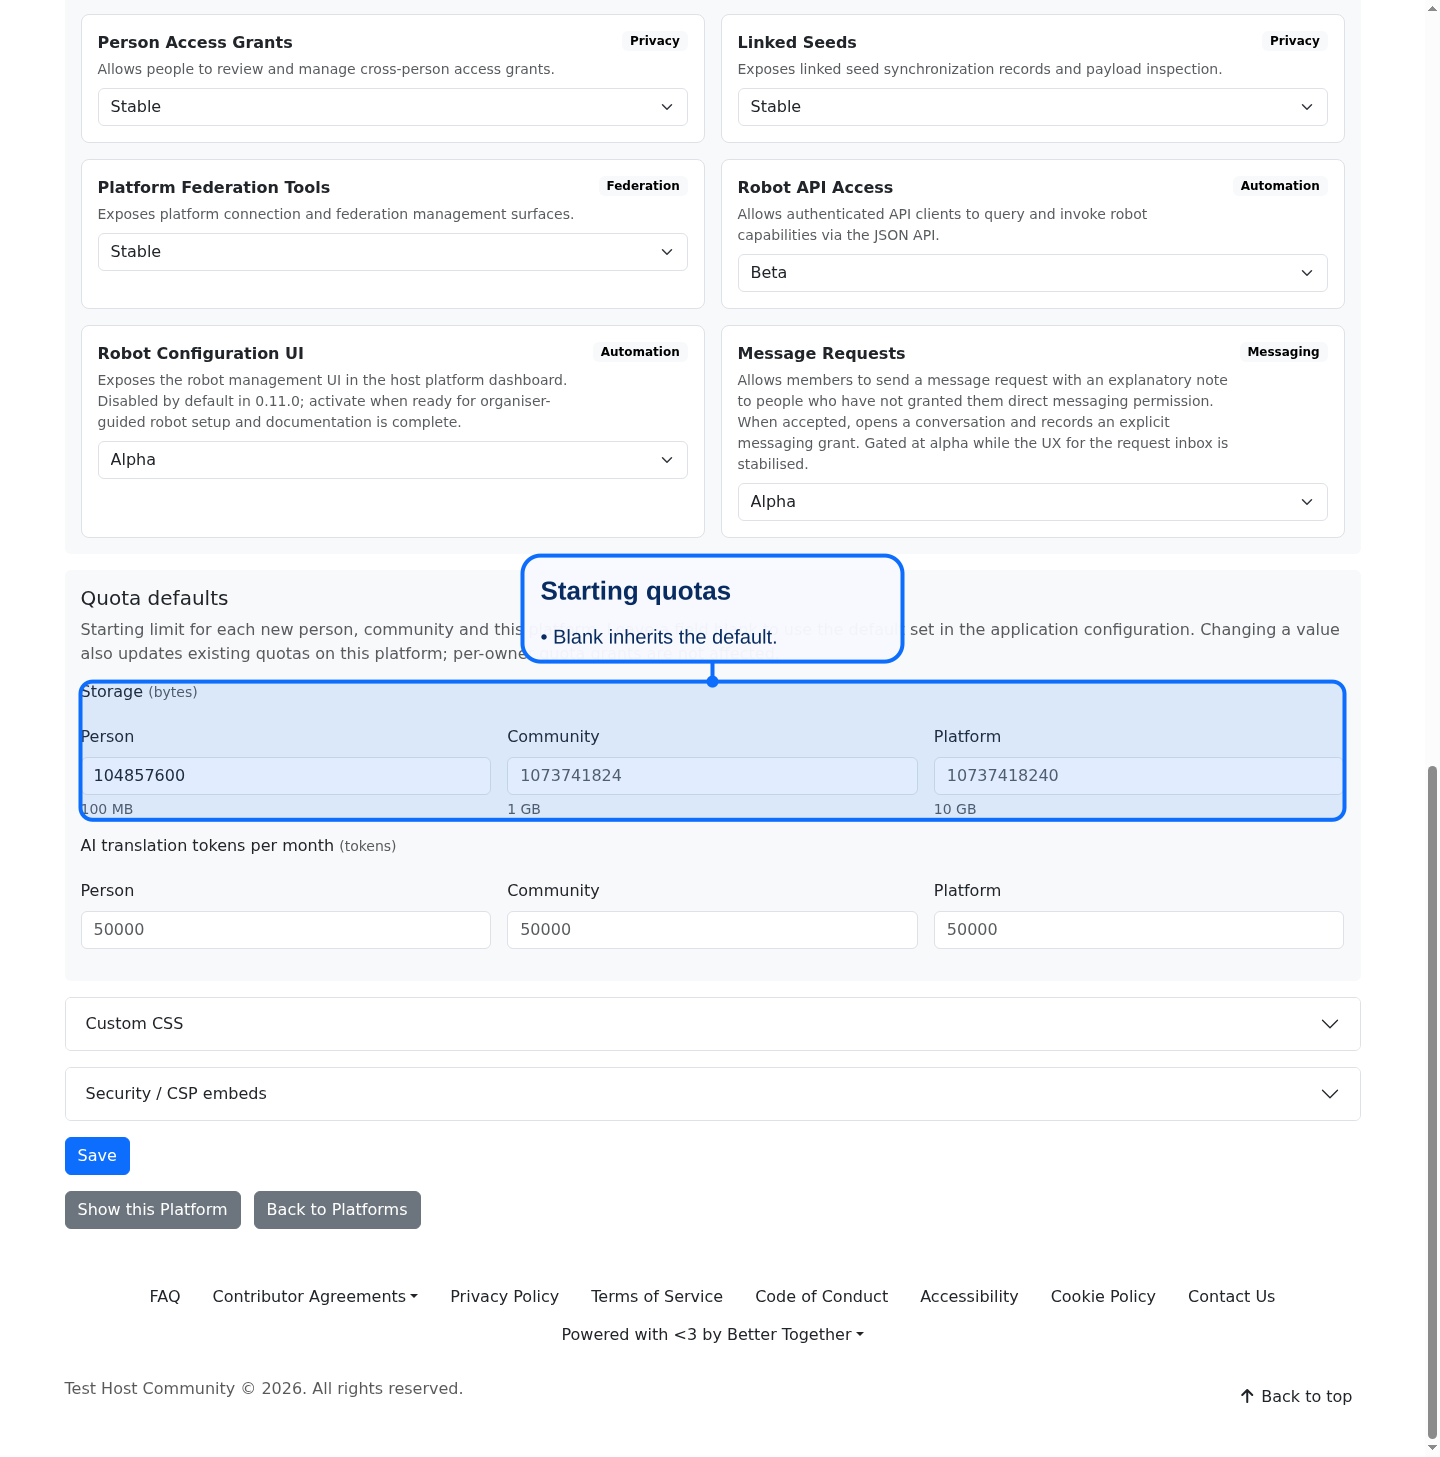
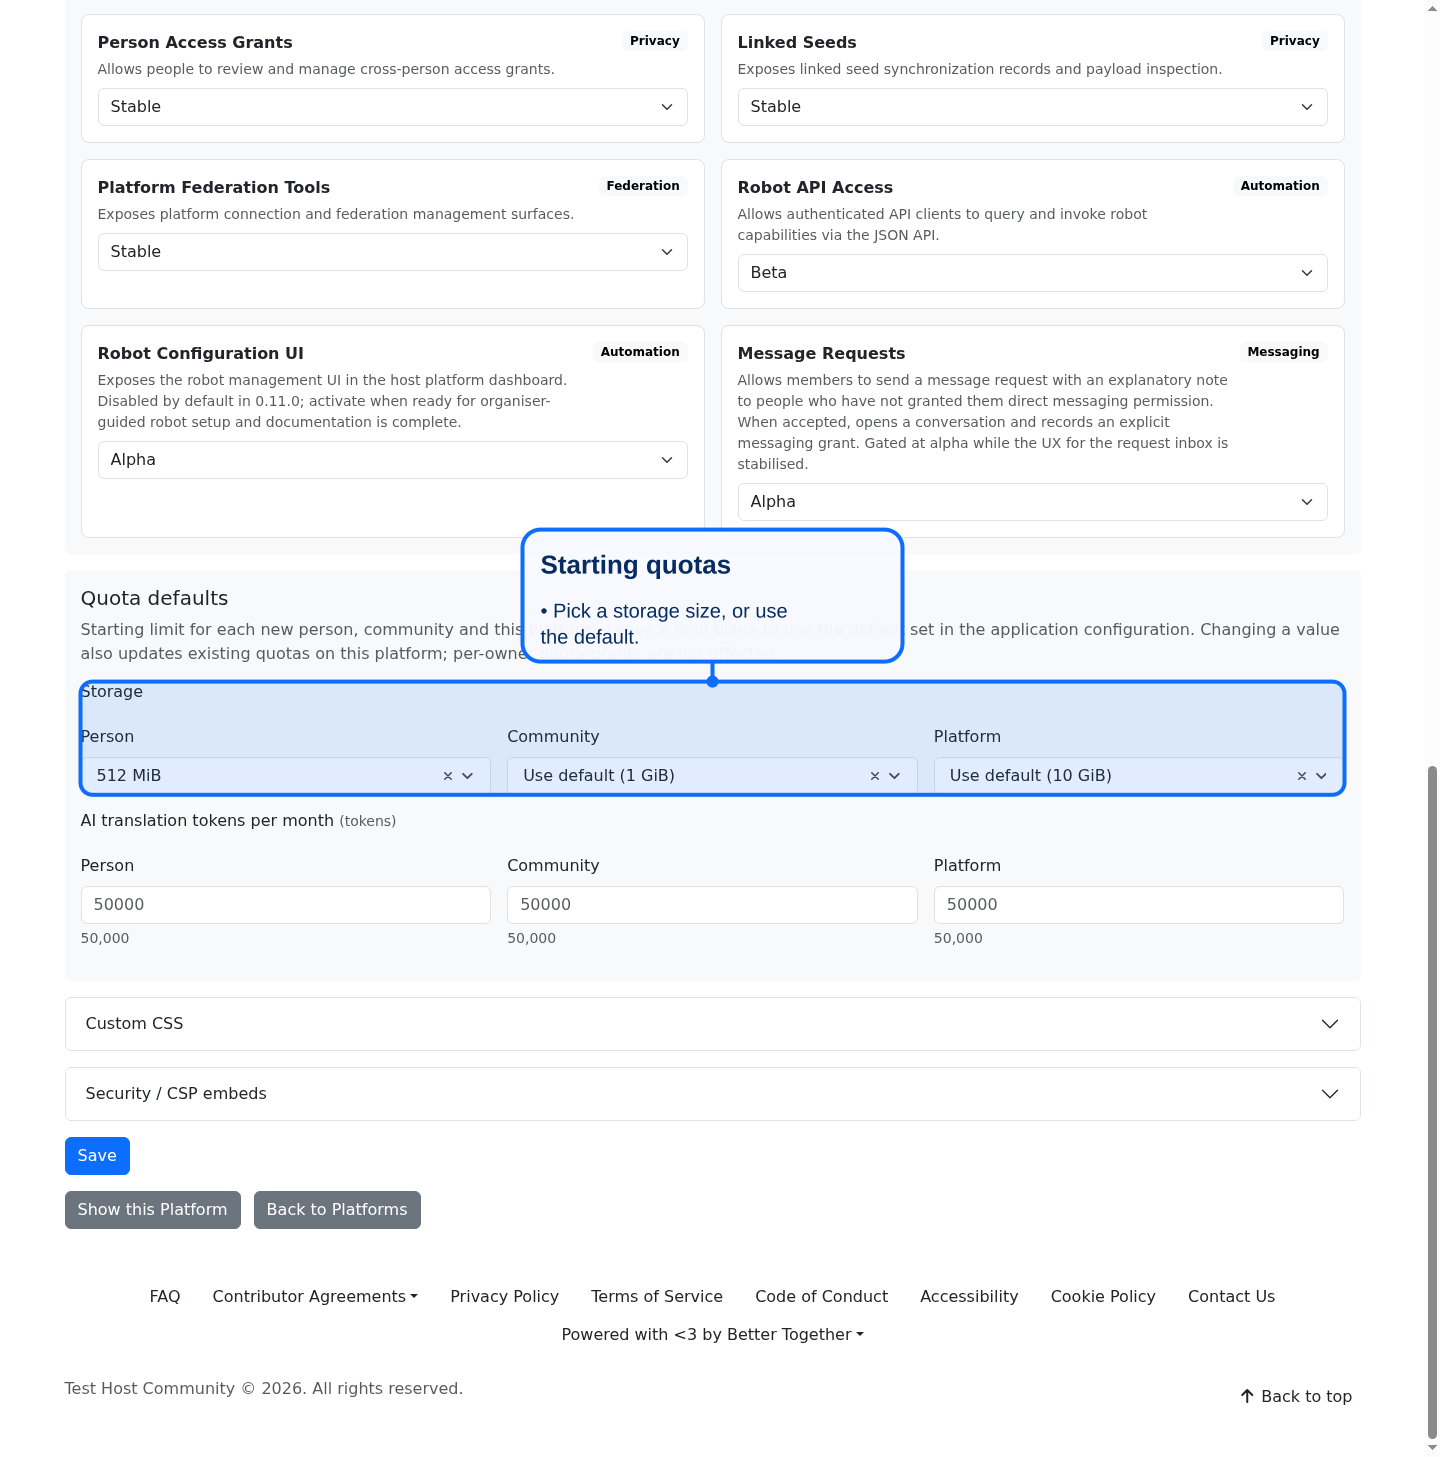
feat(quotas): storage defaults chosen from binary size steps in slim-select
Byte quotas on the platform form are now slim-select dropdowns of binary
denominations (64 MiB up to 8 TiB) shown as human-readable sizes, with a
'use default' entry naming the inherited size. The controller drops any
byte value that is not a listed step or the configured default. Token
quotas stay numeric with a thousands-separated hint. Screenshots, DOM
contract and request specs updated.

Changed region(s): [[0.0312, 0.5251, 0.9375, 0.6486], [0.3438, 0.3397, 0.625, 0.4633]]

diff --git a/lib/better_together/quotas/defaults.rb b/lib/better_together/quotas/defaults.rb
@@ -9,6 +9,13 @@ module BetterTogether
     module Defaults
       OWNER_KINDS = %w[person community platform].freeze
       FILE_NAME = 'quota_defaults.yml'
+      MEBIBYTE = 1024**2
+      # Binary storage denominations offered by the platform form for byte-unit quotas.
+      STORAGE_STEPS = (
+        [64, 128, 256, 512].map { |mib| mib * MEBIBYTE } +
+        [1, 2, 4, 8, 16, 32, 64, 128, 256, 512].map { |gib| gib * 1024 * MEBIBYTE } +
+        [1, 2, 4, 8].map { |tib| tib * (1024**2) * MEBIBYTE }
+      ).freeze
 
       class InvalidDefaultsError < StandardError; end
 
@@ -61,6 +68,16 @@ module BetterTogether
           end
         end
 
+        # Form input guard: for byte-unit types keeps only values that are a listed
+        # storage step or the configured YAML default for that owner kind; everything
+        # else is dropped (inherit). Other units pass through unchanged.
+        def restrict_to_storage_steps(overrides)
+          sanitize_overrides(overrides).each_with_object({}) do |(type, limits), result|
+            allowed = limits.select { |kind, limit| allowed_limit?(type, kind, limit) }
+            result[type] = allowed if allowed.any?
+          end
+        end
+
         # The merged type => kind => integer table (no platform overrides).
         def table
           @table ||= load_table.freeze
@@ -80,6 +97,12 @@ module BetterTogether
         end
 
         private
+
+        def allowed_limit?(type, kind, limit)
+          return true unless Type.find(type)&.unit == :bytes
+
+          STORAGE_STEPS.include?(limit) || yaml_value(type, kind) == limit
+        end
 
         def sanitize_kinds(by_kind)
           by_kind.each_pair.with_object({}) do |(kind, limit), result|

diff --git a/spec/docs_screenshots/better_together/platform_quota_defaults_spec.rb b/spec/docs_screenshots/better_together/platform_quota_defaults_spec.rb
@@ -17,7 +17,7 @@ RSpec.describe 'Documentation screenshots for platform quota defaults',
     skip 'Set RUN_DOCS_SCREENSHOTS=1 to generate documentation screenshots.' unless ENV['RUN_DOCS_SCREENSHOTS'] == '1'
 
     Current.platform = host_platform
-    host_platform.update!(quota_default_limits: { 'media_storage' => { 'person' => 104_857_600 } })
+    host_platform.update!(quota_default_limits: { 'media_storage' => { 'person' => 536_870_912 } })
   end
 
   after do
@@ -34,7 +34,7 @@ RSpec.describe 'Documentation screenshots for platform quota defaults',
         {
           selector: "##{ActionView::RecordIdentifier.dom_id(host_platform, :quota_defaults_media_storage)}",
           title: 'Starting quotas',
-          bullets: ['Blank inherits the default.']
+          bullets: ['Pick a storage size, or use the default.']
         }
       ]
     ) do
@@ -43,7 +43,10 @@ RSpec.describe 'Documentation screenshots for platform quota defaults',
 
       card = find("##{ActionView::RecordIdentifier.dom_id(host_platform, :quota_defaults)}")
       card.scroll_to(:center)
-      expect(page).to have_field('platform[quota_default_limits][media_storage][person]', with: '104857600')
+      select_name = 'platform[quota_default_limits][media_storage][person]'
+      expect(page).to have_css("select[name='#{select_name}']", visible: :all, wait: 10)
+      expect(page).to have_css('.ss-main', wait: 5)
+      expect(page).to have_css('.ss-main .ss-single', text: '512 MiB', wait: 5)
     end
 
     expect(result[:desktop]).to end_with('docs/screenshots/desktop/platform_quota_defaults.png')

diff --git a/spec/requests/better_together/platforms_controller_spec.rb b/spec/requests/better_together/platforms_controller_spec.rb
@@ -272,11 +272,22 @@ RSpec.describe 'BetterTogether::PlatformsController', :as_platform_manager do
       patch better_together.platform_path(locale:, id: host_platform.slug), params: {
         platform: {
           host_url: host_platform.host_url, time_zone: host_platform.time_zone,
-          quota_default_limits: { media_storage: { person: '1048576', community: '' } }
+          quota_default_limits: { media_storage: { person: '268435456', community: '' } }
         }
       }
 
-      expect(host_platform.reload.quota_default_limits).to eq('media_storage' => { 'person' => 1_048_576 })
+      expect(host_platform.reload.quota_default_limits).to eq('media_storage' => { 'person' => 268_435_456 })
+    end
+
+    it 'drops byte limits that are not a listed binary storage step' do
+      patch better_together.platform_path(locale:, id: host_platform.slug), params: {
+        platform: {
+          host_url: host_platform.host_url, time_zone: host_platform.time_zone,
+          quota_default_limits: { media_storage: { person: '123', community: '1073741824' } }
+        }
+      }
+
+      expect(host_platform.reload.quota_default_limits).to eq('media_storage' => { 'community' => 1_073_741_824 })
     end
 
     it 'renders the quota defaults card on the edit form' do

diff --git a/app/helpers/better_together/platforms_helper.rb b/app/helpers/better_together/platforms_helper.rb
@@ -56,6 +56,28 @@ module BetterTogether
       end
     end
 
+    BINARY_SIZE_UNITS = %w[B KiB MiB GiB TiB].freeze
+
+    # Human-readable binary size, e.g. 262144000 => "250 MiB", 1073741824 => "1 GiB".
+    def quota_size_label(bytes)
+      value = bytes.to_f
+      unit = 0
+      while value >= 1024 && unit < BINARY_SIZE_UNITS.size - 1
+        value /= 1024
+        unit += 1
+      end
+      "#{value.round(2).to_s.sub(/\.0\z/, '')} #{BINARY_SIZE_UNITS[unit]}"
+    end
+
+    # Options for a byte-quota select: a blank "use default" entry, every binary step,
+    # plus the current value when it is not a listed step so it is never silently lost.
+    def quota_storage_options(entry)
+      steps = (BetterTogether::Quotas::Defaults::STORAGE_STEPS + [entry[:value], entry[:inherited]].compact).uniq.sort
+      size = entry[:inherited] ? quota_size_label(entry[:inherited]) : '-'
+      default_label = t('better_together.platforms.form.quota_use_default', size:, default: "Use default (#{size})")
+      [[default_label, '']] + steps.map { |bytes| [quota_size_label(bytes), bytes] }
+    end
+
     def feature_gate_catalog
       BetterTogether::FeatureRegistry.all.values
     end

diff --git a/spec/dom_contracts/platform_quota_defaults_card_spec.rb b/spec/dom_contracts/platform_quota_defaults_card_spec.rb
@@ -20,12 +20,15 @@ RSpec.describe 'Platform quota defaults card DOM contract', :as_platform_manager
     end
   end
 
-  it 'shows the inherited default as the placeholder and the current override as the value' do
-    host_platform.update!(quota_default_limits: { 'media_storage' => { 'person' => '123' } })
+  it 'offers byte quotas as a slim-select of binary sizes with the override selected' do # rubocop:disable RSpec/MultipleExpectations
+    host_platform.update!(quota_default_limits: { 'media_storage' => { 'person' => '536870912' } })
 
     get better_together.edit_platform_path(locale: I18n.default_locale, id: host_platform.slug)
 
-    expect(response.body).to match(/name="platform\[quota_default_limits\]\[media_storage\]\[person\]"[^>]*value="123"/)
+    select = parsed_response.at_css('select[name="platform[quota_default_limits][media_storage][person]"]')
+    expect(select['data-controller']).to eq('better_together--slim-select')
+    expect(select.at_css('option[selected]').text).to eq('512 MiB')
+    expect(select.css('option').map(&:text)).to include('Use default (250 MiB)', '250 MiB', '1 GiB', '1 TiB')
   end
 
   it 'is not rendered for an external platform' do

diff --git a/app/controllers/better_together/platforms_controller.rb b/app/controllers/better_together/platforms_controller.rb
@@ -143,12 +143,22 @@ module BetterTogether
         BetterTogether::Content::Css.extra_permitted_attributes +
         BetterTogether::Content::Css.localized_attribute_list }]
 
-      params.require(:platform).permit(
+      permitted = params.require(:platform).permit(
         permitted_attributes,
         *settings_attributes,
         *locale_attributes,
         *css_block_attrs
       )
+      restrict_quota_default_limits(permitted)
+    end
+
+    # Byte quotas may only be set to a listed binary storage step (or the configured default).
+    def restrict_quota_default_limits(permitted)
+      return permitted unless permitted.key?(:quota_default_limits)
+
+      permitted[:quota_default_limits] =
+        BetterTogether::Quotas::Defaults.restrict_to_storage_steps(permitted[:quota_default_limits].to_h)
+      permitted
     end
 
     # Adds a policy check for the platform

diff --git a/spec/lib/better_together/quotas/defaults_spec.rb b/spec/lib/better_together/quotas/defaults_spec.rb
@@ -79,4 +79,19 @@ RSpec.describe BetterTogether::Quotas::Defaults do
       expect(described_class.for(type: 'media_storage', owner: platform)).to eq(9)
     end
   end
+
+  describe '.restrict_to_storage_steps' do
+    it 'keeps listed steps and the configured default, drops other byte values' do
+      result = described_class.restrict_to_storage_steps(
+        'media_storage' => { 'person' => '262144000', 'community' => '1073741824', 'platform' => '5' }
+      )
+
+      expect(result).to eq('media_storage' => { 'person' => 262_144_000, 'community' => 1_073_741_824 })
+    end
+
+    it 'lets non-byte quota types through unchanged' do
+      expect(described_class.restrict_to_storage_steps('ai_translation_tokens' => { 'person' => '12345' }))
+        .to eq('ai_translation_tokens' => { 'person' => 12_345 })
+    end
+  end
 end

diff --git a/spec/helpers/better_together/platforms_helper_spec.rb b/spec/helpers/better_together/platforms_helper_spec.rb
@@ -121,5 +121,12 @@ module BetterTogether # :nodoc:
         expect(helper.active_invitation_token).to eq('platform_token')
       end
     end
+
+    describe '#quota_size_label' do
+      it 'formats bytes as binary units' do
+        expect([262_144_000, 1_073_741_824, 10 * (1024**3), 1024**4, 1536 * (1024**2)].map { |b| helper.quota_size_label(b) })
+          .to eq(['250 MiB', '1 GiB', '10 GiB', '1 TiB', '1.5 GiB'])
+      end
+    end
   end
 end
